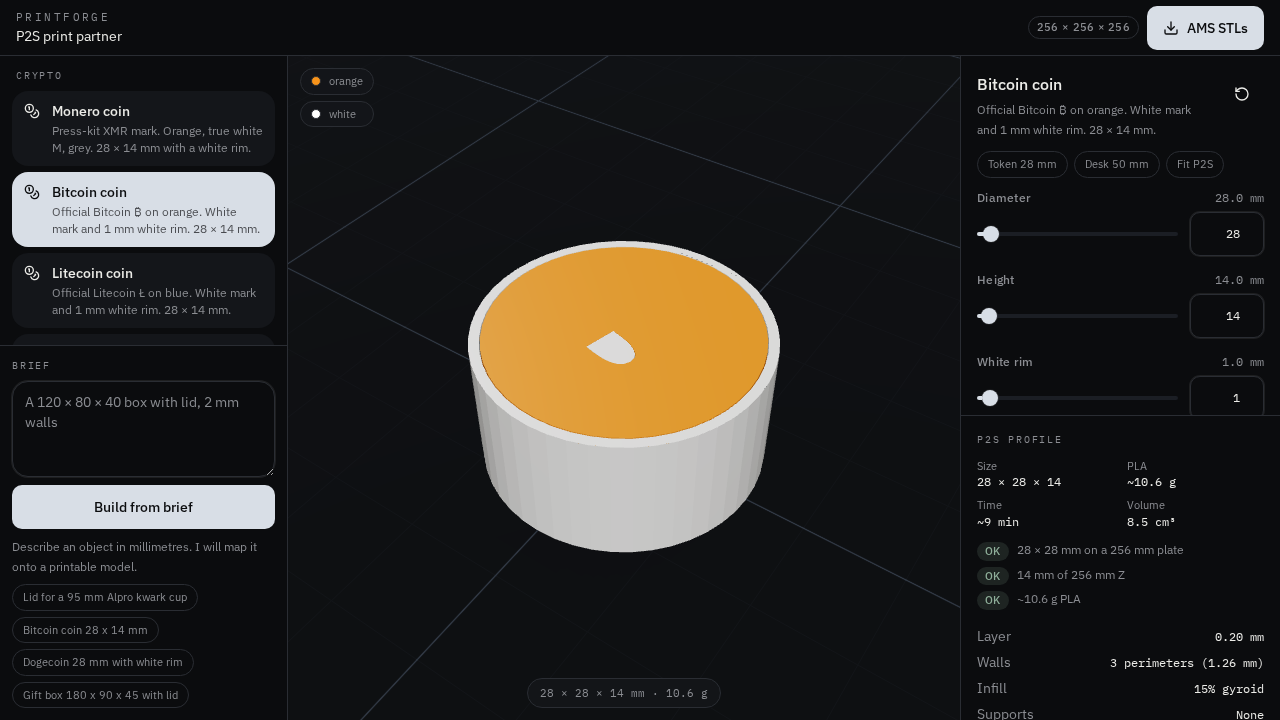
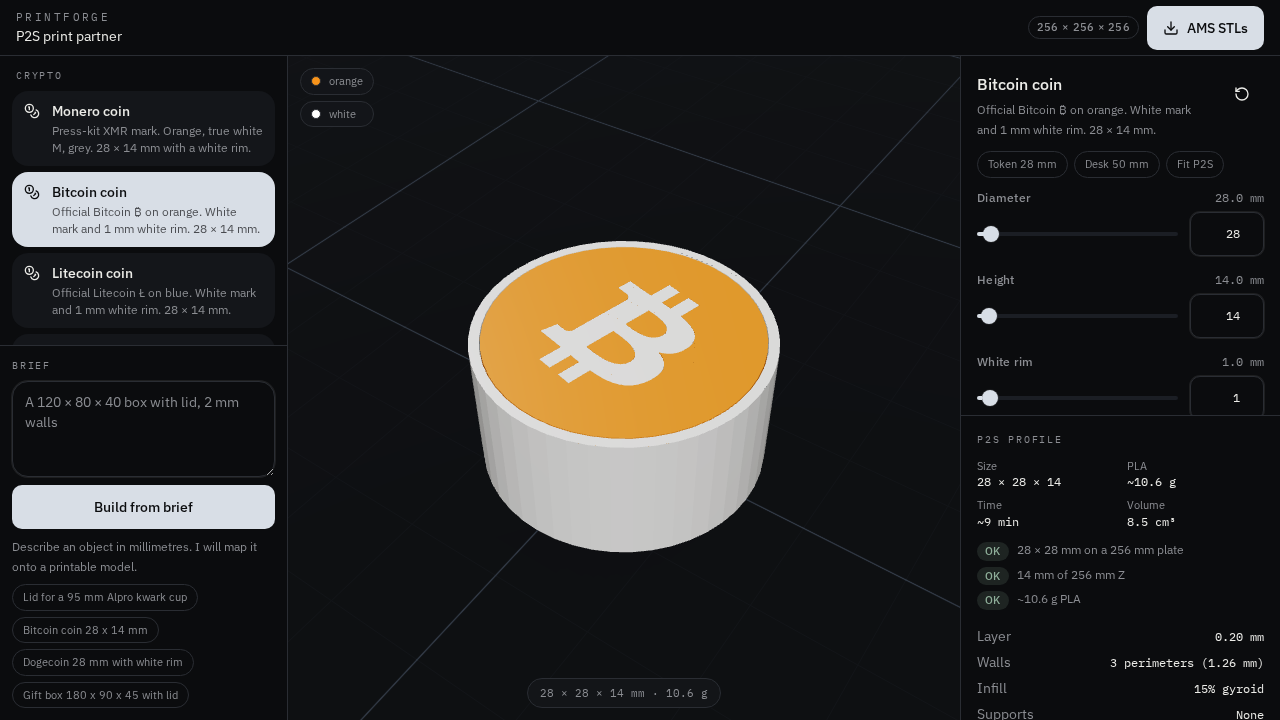
Fix Bitcoin ₿ winding and Dogecoin CSG so both marks render
The ₿ holes were reversed after the Y-flip, so only a leftover
counter survived. Orient outer and holes CCW before subtract.

Dogecoin's Shiba was a 2D union of circles and triangles, which
JSCAD cannot close. Replace it with a single outline so the
cream face and white D actually appear.

Changed region(s): [[0.4062, 0.3972, 0.5625, 0.55]]

diff --git a/src/lib/print/coins.ts b/src/lib/print/coins.ts
@@ -13,7 +13,7 @@ import {
   type Geom3,
 } from "./geometry";
 import { primitives } from "./jscad";
-import { largestFirst, pathContours, scaleFlip } from "./svg-path";
+import { largestFirst, pathContours, scaleFlip, cleanContour } from "./svg-path";
 import {
   bool,
   clamp,
@@ -87,12 +87,16 @@ function markFromPath(d: string, view: number, logoD: number, cx?: number, cy?: 
   const s = logoD / view;
   const c = cx ?? view / 2;
   const k = cy ?? view / 2;
-  const contours = largestFirst(scaleFlip(pathContours(d, 8), c, k, s));
-  if (!contours.length) return circle2(logoD * 0.1, 12);
+  const contours = largestFirst(scaleFlip(pathContours(d, 10), c, k, s)).map((pts) =>
+    cleanContour(pts, true),
+  );
+  if (!contours.length || contours[0]!.length < 3) return circle2(logoD * 0.1, 12);
   let g = poly2(contours[0]!);
   for (let i = 1; i < contours.length; i++) {
+    const hole = contours[i]!;
+    if (hole.length < 3) continue;
     try {
-      g = subtract(g, poly2(contours[i]!));
+      g = subtract(g, poly2(hole));
     } catch {
       /* skip degenerate hole */
     }
@@ -123,22 +127,24 @@ export function dogeD(d: number): Geom2 {
   return union(stem, bowl);
 }
 
-/** Simplified Shiba silhouette — ears and snout peek around the D. */
+/** Kabosu silhouette as one closed outline — no 2D unions (those break JSCAD). */
 export function shibaHead(d: number): Geom2 {
-  const head = circleAt(d * 0.34, 0.02 * d, -0.02 * d, 28);
-  const leftEar = poly2([
-    [-0.26 * d, 0.04 * d],
-    [-0.34 * d, 0.42 * d],
-    [-0.08 * d, 0.16 * d],
-  ]);
-  const rightEar = poly2([
-    [0.08 * d, 0.16 * d],
-    [0.34 * d, 0.42 * d],
-    [0.26 * d, 0.04 * d],
-  ]);
-  const snout = circleAt(0.15 * d, -0.12 * d, -0.22 * d, 18);
-  const cheek = circleAt(0.12 * d, 0.16 * d, -0.16 * d, 16);
-  return union(head, leftEar, rightEar, snout, cheek);
+  const p: [number, number][] = [
+    [-0.08, 0.16],
+    [-0.26, 0.46],
+    [-0.32, 0.10],
+    [-0.38, -0.02],
+    [-0.36, -0.18],
+    [-0.26, -0.32],
+    [-0.08, -0.40],
+    [0.12, -0.36],
+    [0.26, -0.22],
+    [0.34, -0.06],
+    [0.36, 0.10],
+    [0.26, 0.46],
+    [0.08, 0.16],
+  ].map(([x, y]) => [x * d, y * d]);
+  return poly2(cleanContour(p, true));
 }
 
 export function digibyteD(d: number): Geom2 {

diff --git a/src/lib/print/svg-path.ts b/src/lib/print/svg-path.ts
@@ -207,3 +207,17 @@ export function scaleFlip(contours: Pt[][], cx: number, cy: number, s: number): 
 export function largestFirst(contours: Pt[][]): Pt[][] {
   return [...contours].sort((a, b) => Math.abs(area(b)) - Math.abs(area(a)));
 }
+
+export function cleanContour(pts: Pt[], ccw = true): Pt[] {
+  const out: Pt[] = [];
+  for (const p of pts) {
+    const last = out[out.length - 1];
+    if (!last || Math.hypot(p[0] - last[0], p[1] - last[1]) > 1e-4) out.push([p[0], p[1]]);
+  }
+  if (out.length > 2 && closeEnough(out[0]!, out[out.length - 1]!)) out.pop();
+  if (out.length < 3) return out;
+  const a = area(out);
+  if (ccw && a < 0) out.reverse();
+  if (!ccw && a > 0) out.reverse();
+  return out;
+}
